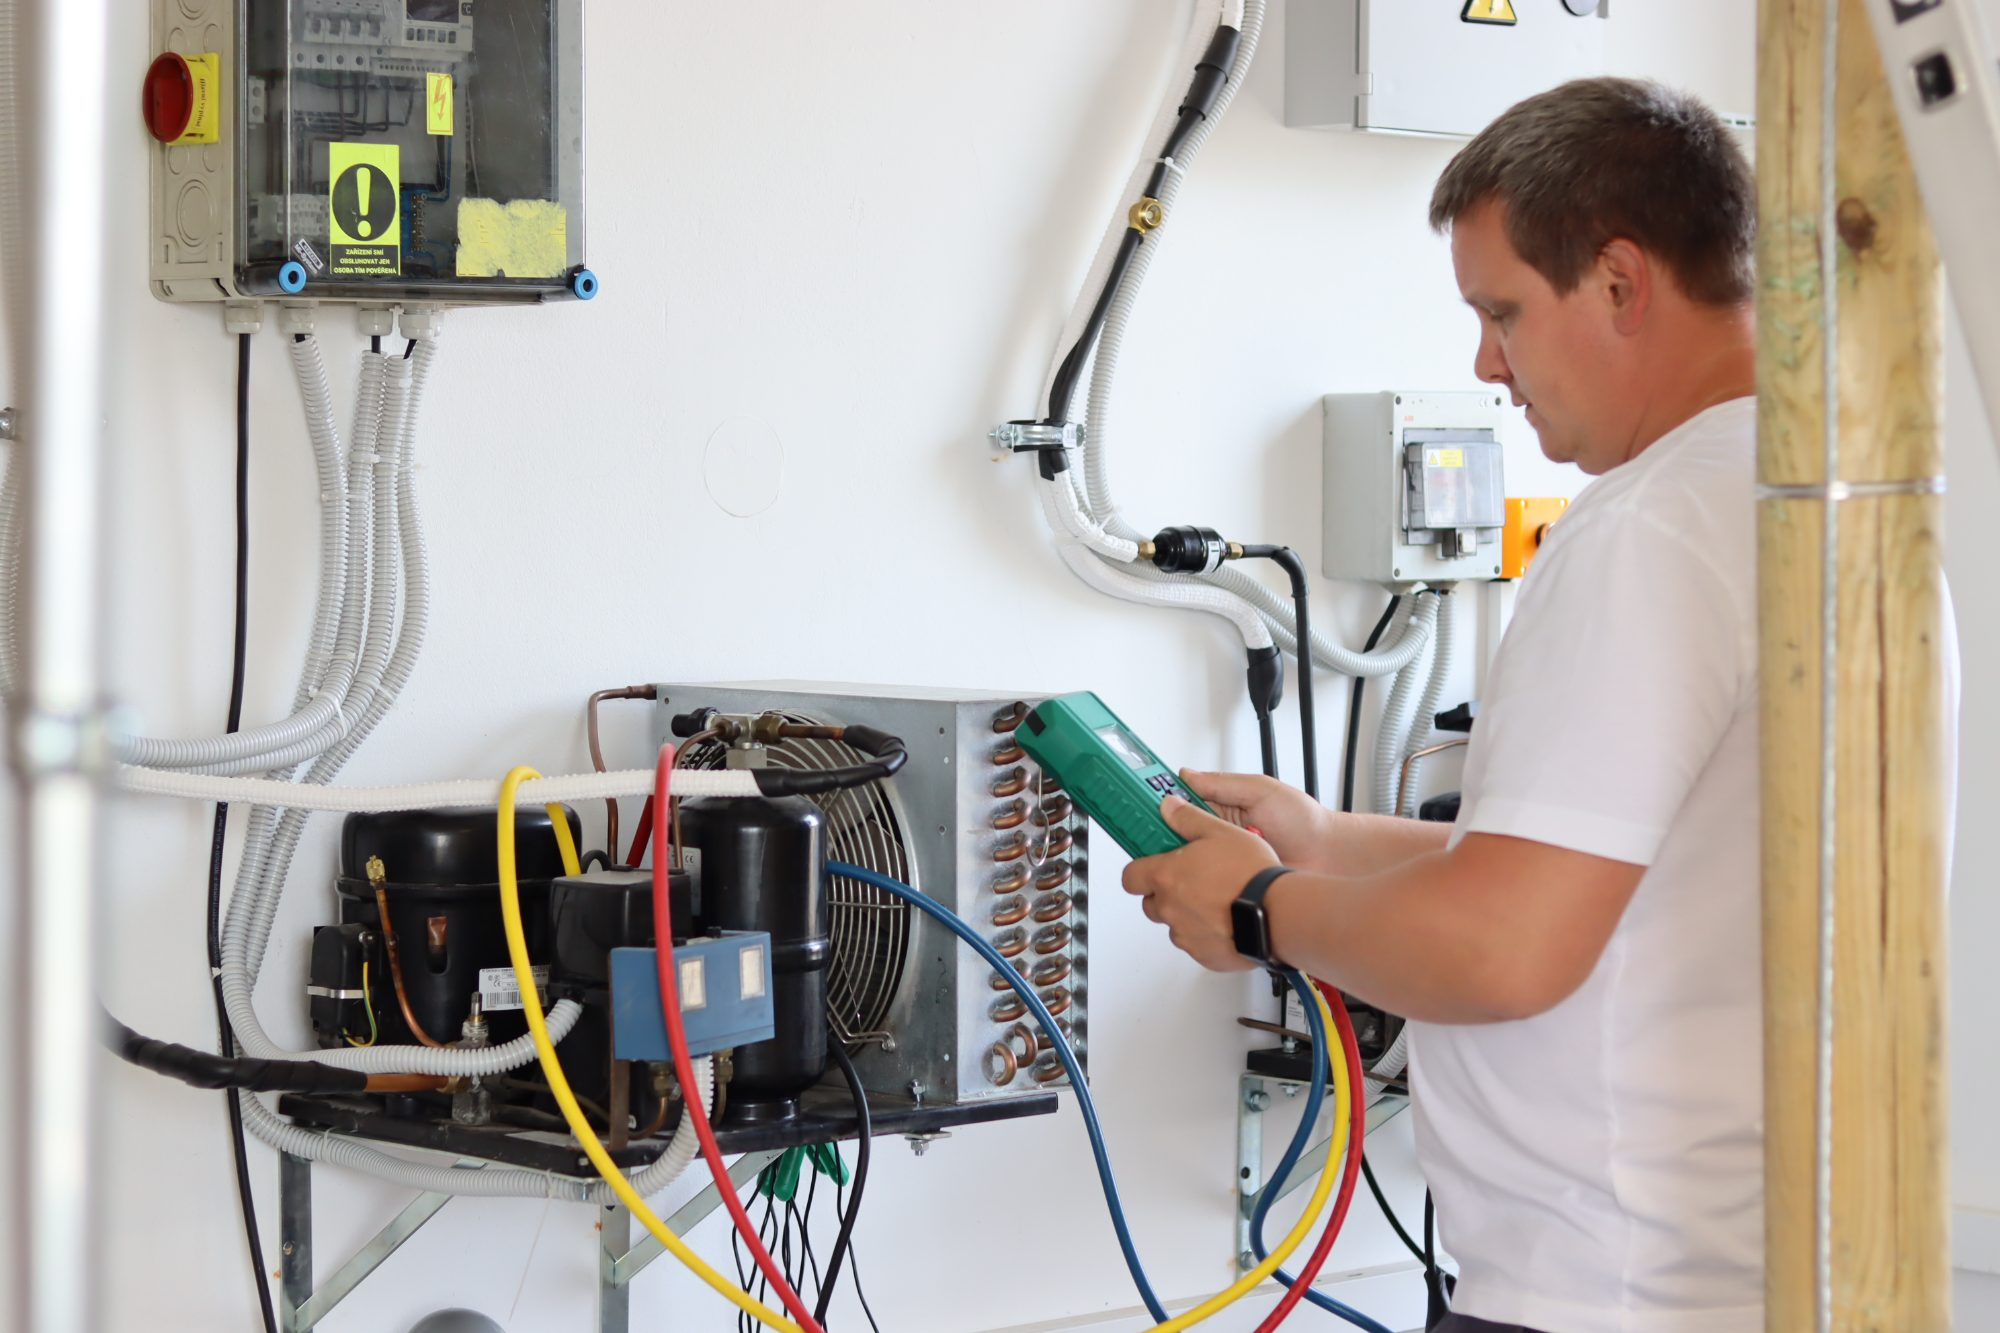
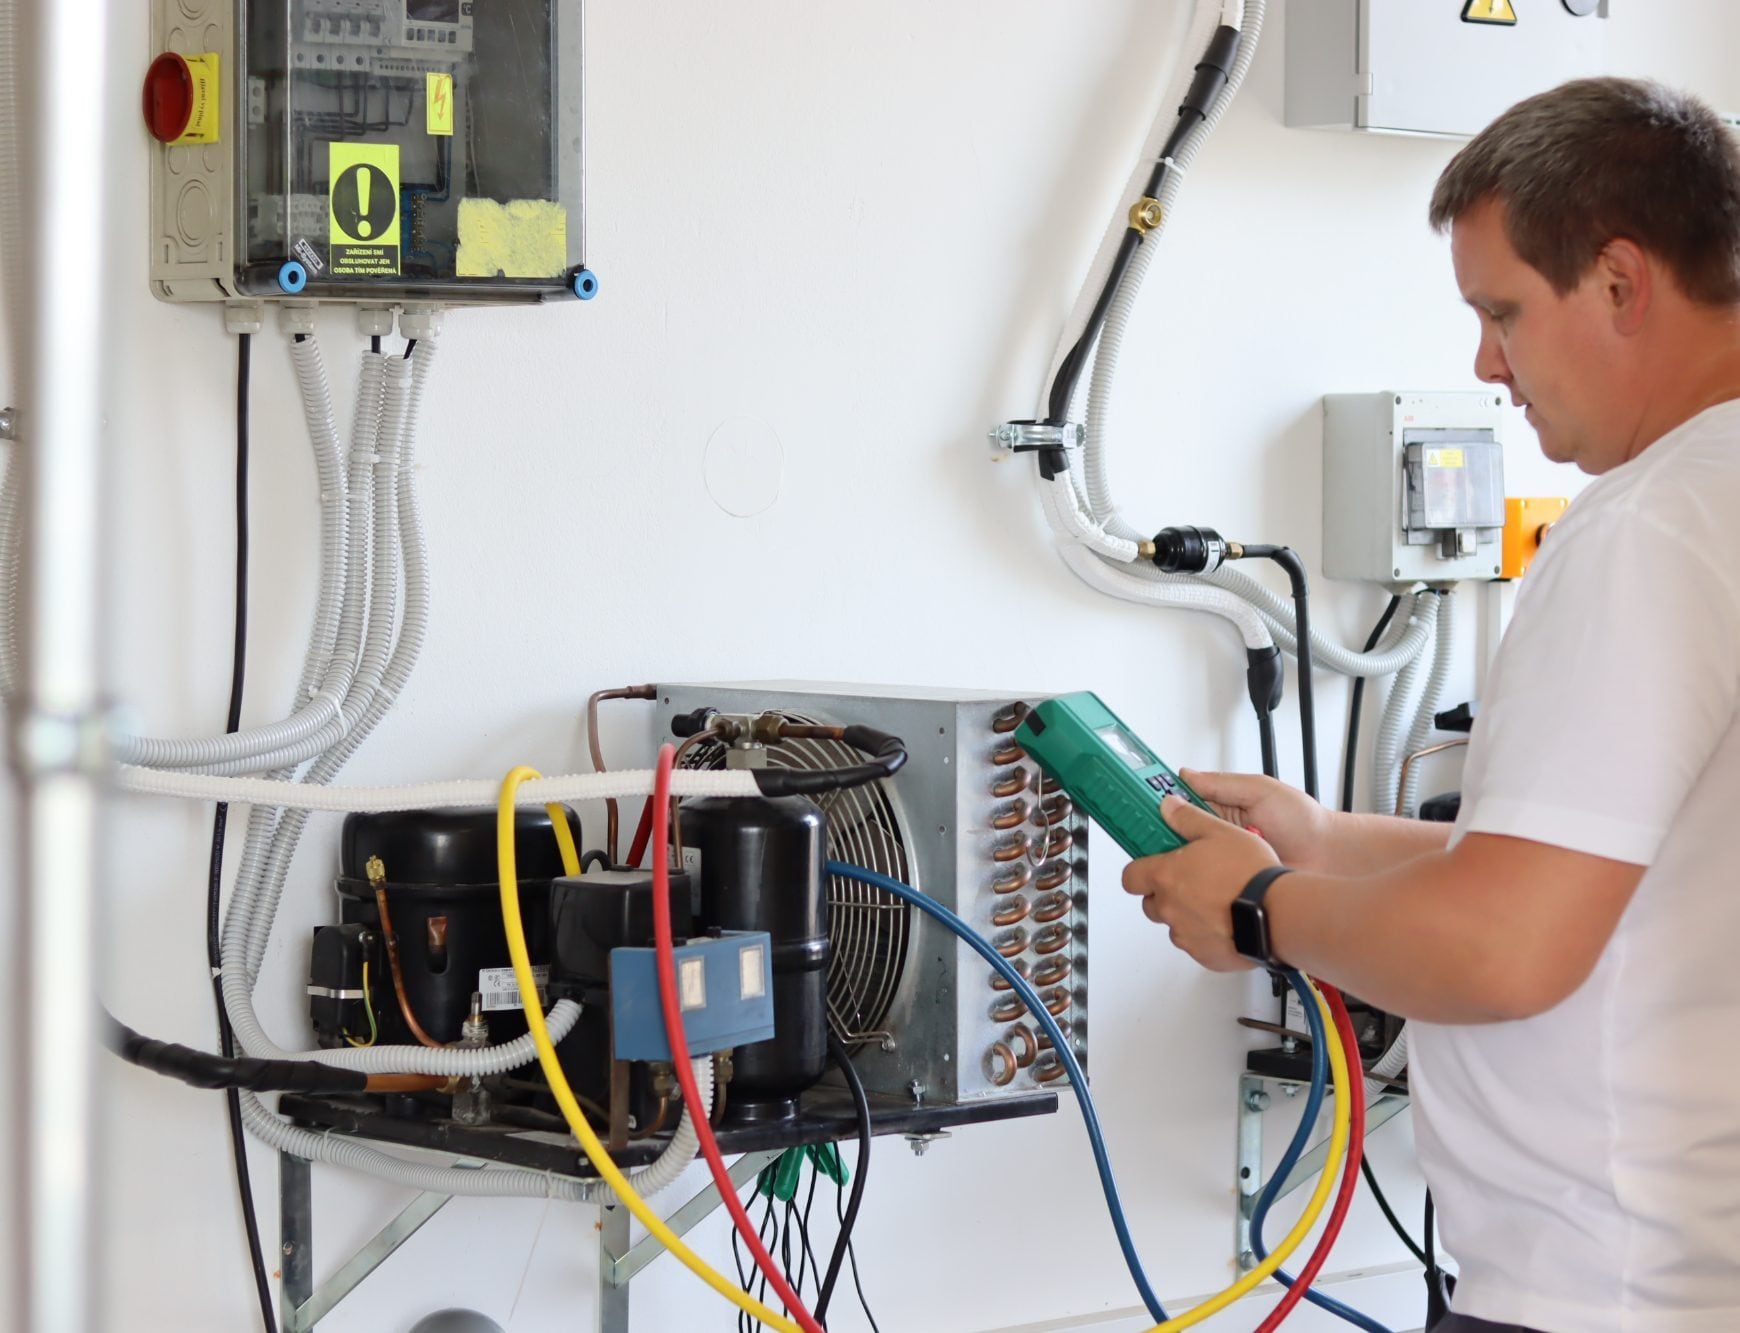
fix(chlazeni): Crop hero pole + pin right so face stays framed; center quick-bar items; rename nav Kurz->Elektro

diff --git a/src/styles/chlazeni.css b/src/styles/chlazeni.css
@@ -11,7 +11,7 @@
 
 /* ---- pásek 4 výhod ---- */
 .chl-quick{display:grid;grid-template-columns:repeat(4,1fr);gap:1px;background:var(--border-default)}
-.chl-quick__item{background:#fff;display:flex;align-items:center;gap:12px;padding:20px 24px;font-weight:var(--fw-semibold);font-size:15px;color:var(--voltimo-primary)}
+.chl-quick__item{background:#fff;display:flex;align-items:center;justify-content:center;gap:12px;padding:20px 24px;font-weight:var(--fw-semibold);font-size:15px;color:var(--voltimo-primary)}
 .chl-quick__ic{flex:none;width:34px;height:34px;border-radius:50%;background:var(--voltimo-yellow);color:var(--voltimo-primary);display:inline-flex;align-items:center;justify-content:center}
 .chl-quick__ic svg{width:18px;height:18px}
 @media (max-width:900px){.chl-quick{grid-template-columns:repeat(2,1fr)}}

diff --git a/src/app/chlazeni/page.tsx b/src/app/chlazeni/page.tsx
@@ -80,7 +80,7 @@ export default function ChlazeniPage() {
       <section className="lp-hero">
         <div
           className="lp-hero__media"
-          style={{ backgroundImage: `url('${basePath}/photos/chl-hero-detektor.jpg')`, backgroundPosition: "center 45%" }}
+          style={{ backgroundImage: `url('${basePath}/photos/chl-hero-detektor.jpg')`, backgroundPosition: "right 20%" }}
         />
         <div className="lp-hero__overlay" />
         <div className="lp-hero__inner">

diff --git a/src/components/site/SiteHeader.tsx b/src/components/site/SiteHeader.tsx
@@ -9,7 +9,7 @@ import { LP_DATA } from "@/lib/lp-data";
 
 const NAV_ITEMS = [
   { label: "Úvod", href: "/" },
-  { label: "Kurz", href: "/elektrikar-za-10-dni/" },
+  { label: "Elektro", href: "/elektrikar-za-10-dni/" },
   { label: "Chlazení", href: "/chlazeni/" },
   { label: "O nás", href: "/o-nas/" },
   { label: "FAQ", href: "/faq/" },
